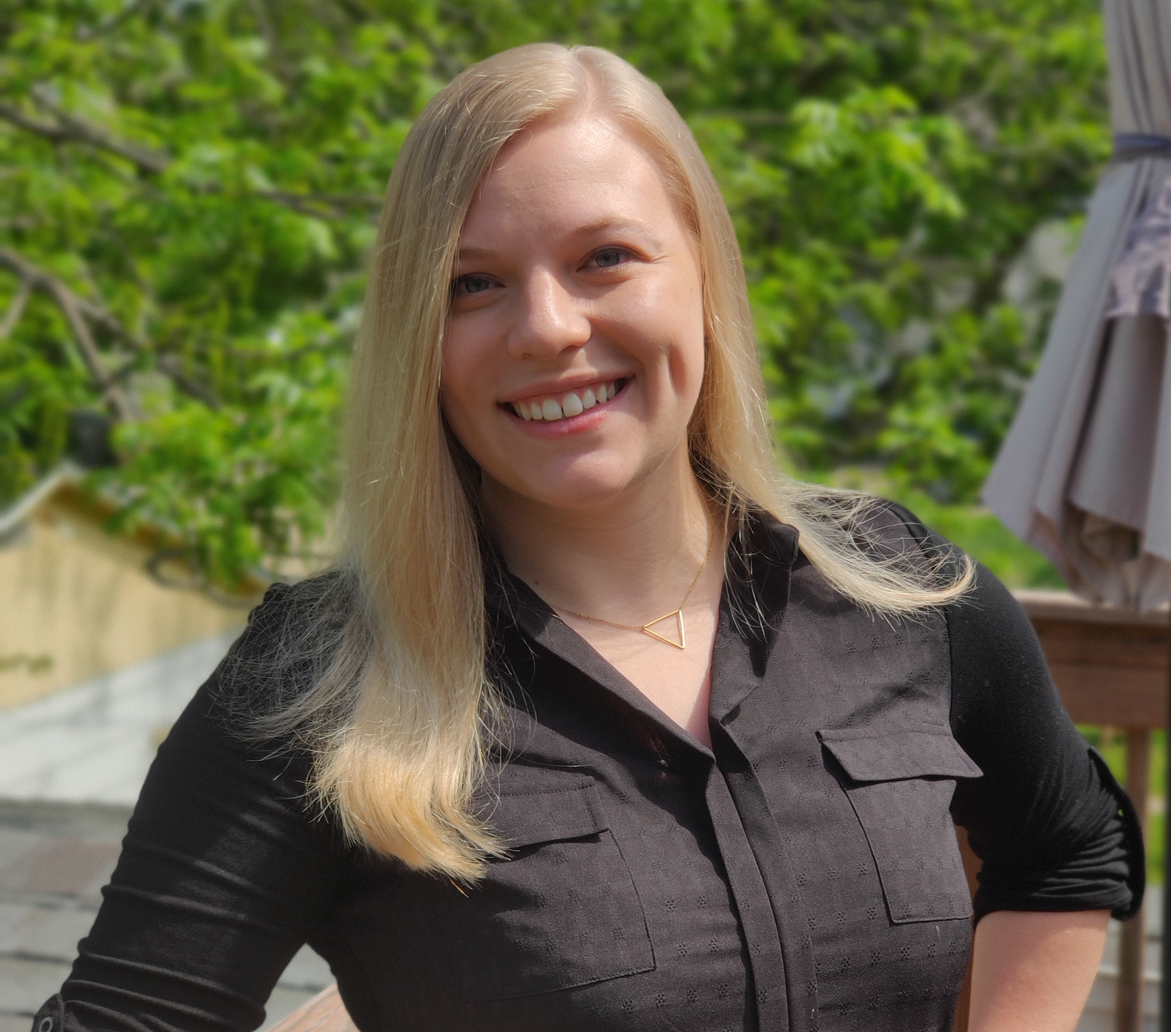
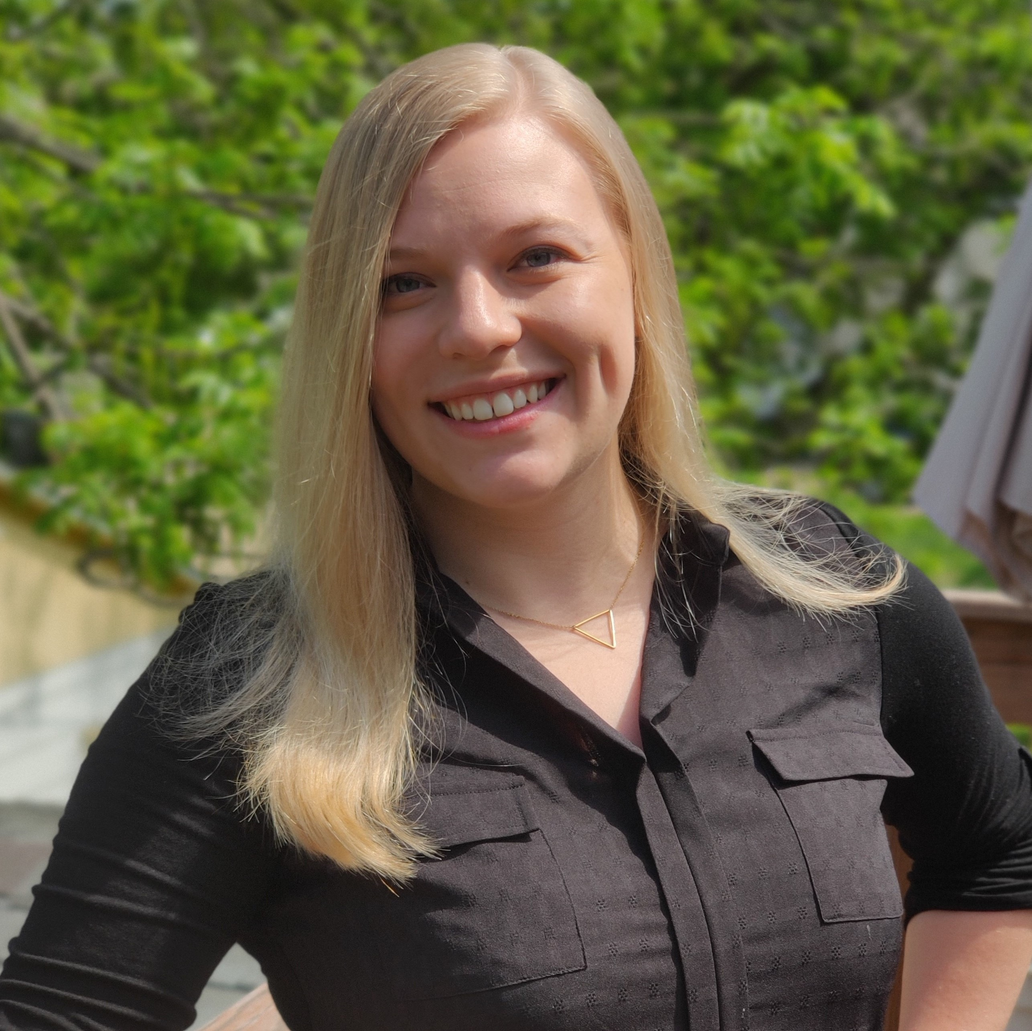
Fixed circle image aspect ratio

diff --git a/index.css b/index.css
@@ -241,7 +241,7 @@ header table {
 }
 #profilePic{
     width:200px;
-    height:200px;
+    height:auto;
     display: block;
     margin-left: auto;
     margin-right: auto;
